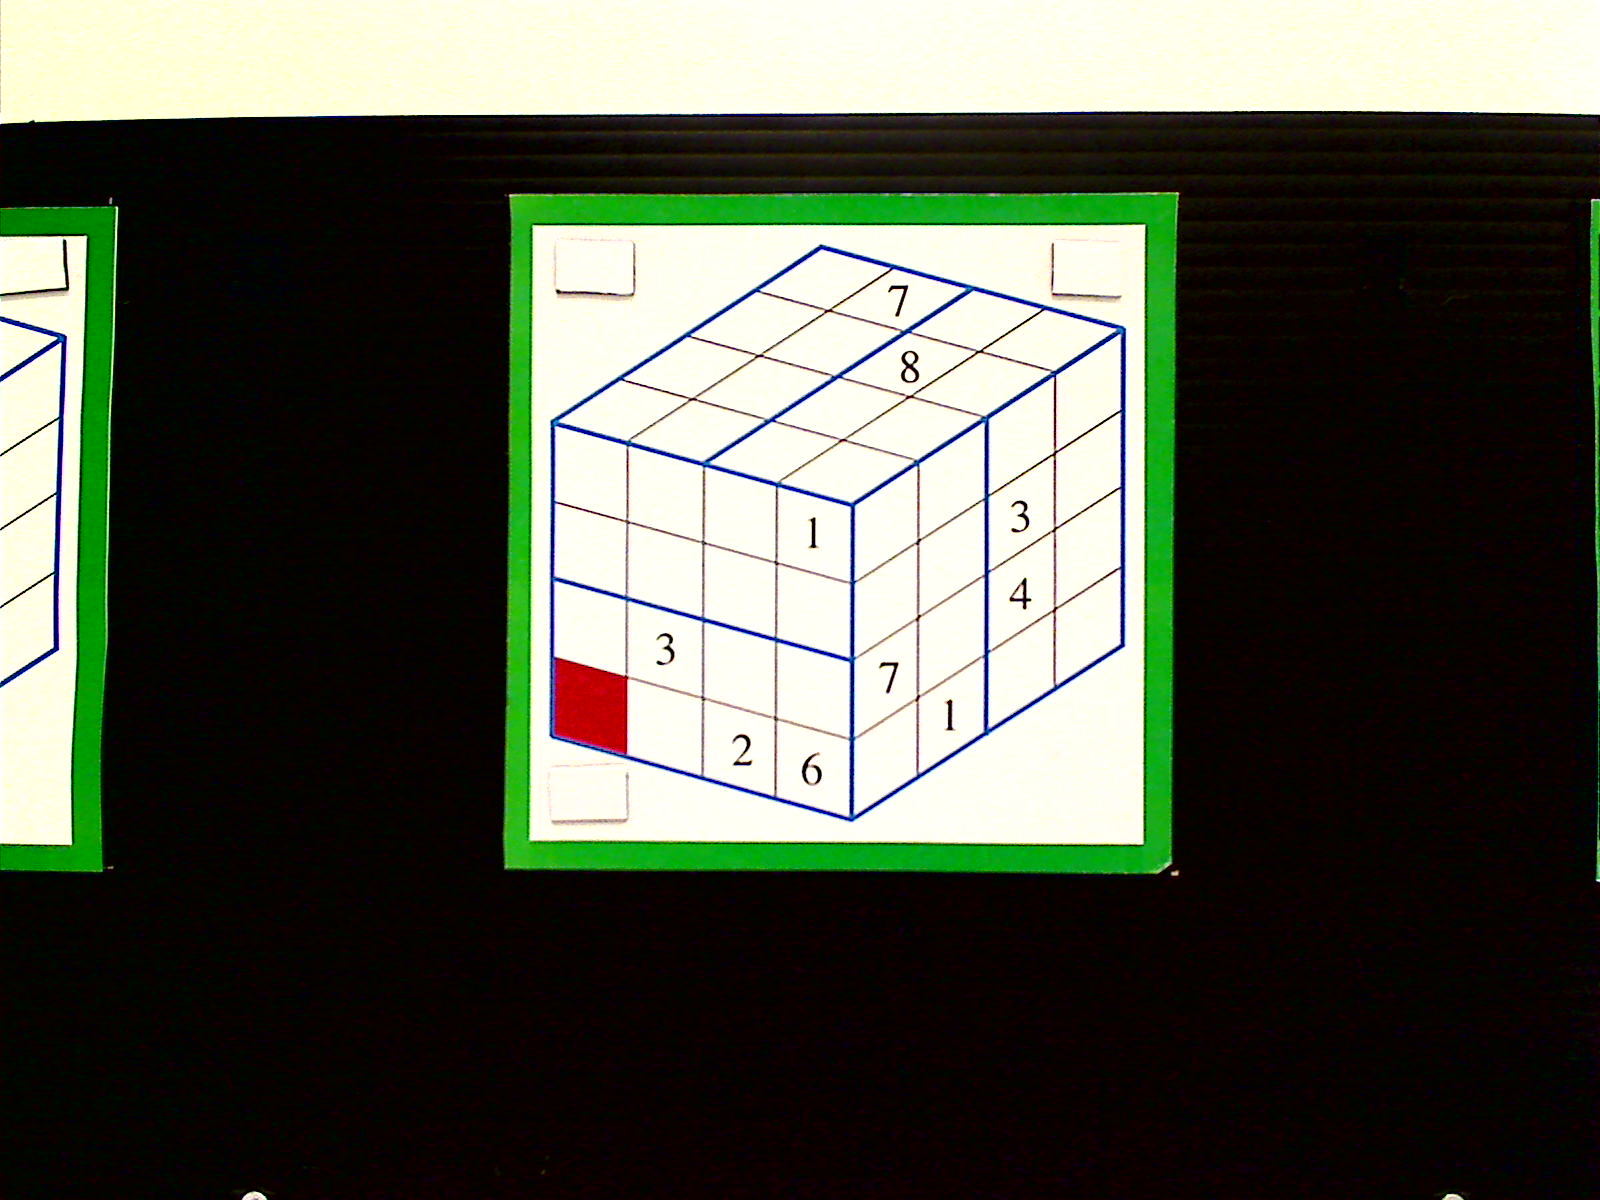
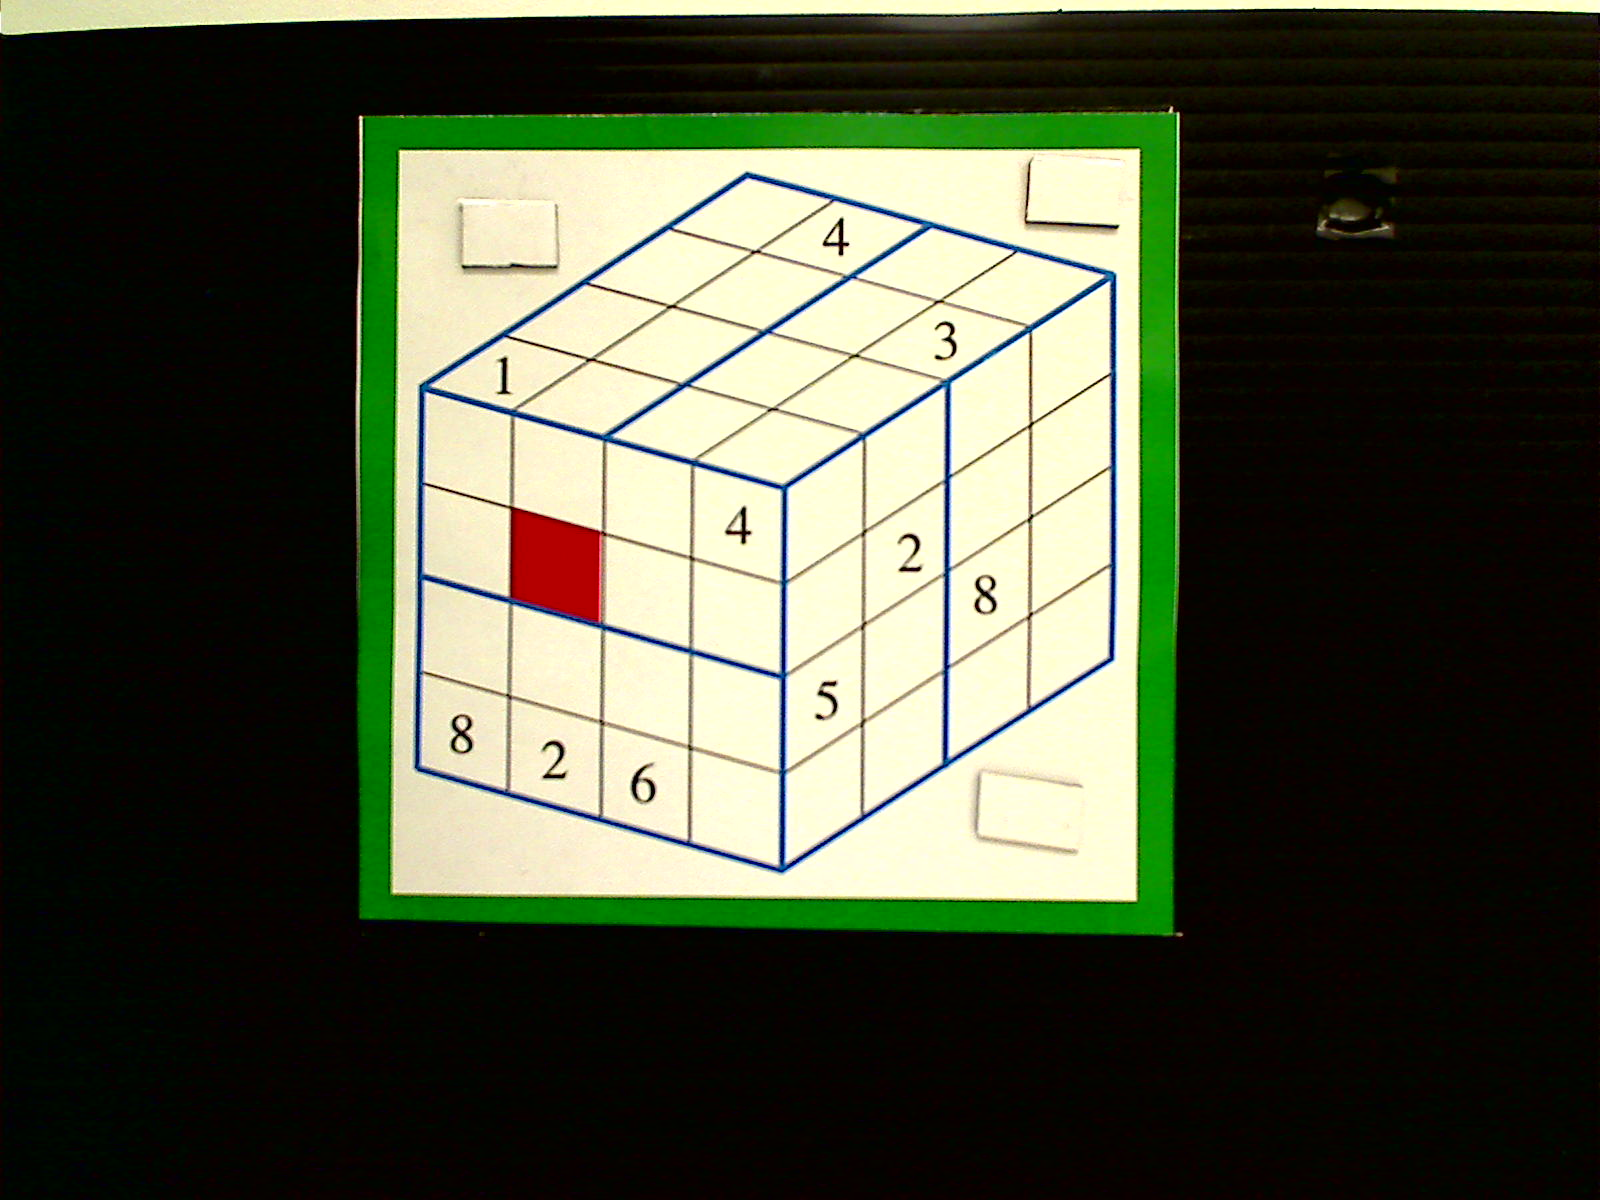
Tentative de correction de l'algo d'extraction des sudocubes

diff --git a/app/src/kinocto/src/vision/SudocubeExtractor.cpp b/app/src/kinocto/src/vision/SudocubeExtractor.cpp
@@ -31,17 +31,56 @@ Sudocube * SudocubeExtractor::extractSudocube(Mat & src) {
         return sudokube;
     }
 
-    double factor;
+    //Réduction de la taille de l'image
     Mat frameCroppedGray = srcGray(frameRect);
-    factor = (double) 500 / (double) frameCroppedGray.cols;
 
-    Size newSize(round(frameCroppedGray.cols * factor), round(frameCroppedGray.rows * factor));
-    cv::resize(frameCroppedGray, frameCroppedGray, newSize);
+    double ratio = (double) frameCroppedGray.cols / frameCroppedGray.rows;
+    double factorX = 500;
+    double factorY = (double) 500 / ratio;
+
+    Size newSize(round(factorX), round(factorY));
+    cv::resize(frameCroppedGray, frameCroppedGray, Size(round(factorX), round(factorY)));
+
+///////////////////////////
+    Mat croppedHSV = srcHSV(frameRect);
+    Size newSizeHSV(round(factorX), round(factorY));
+    cv::resize(croppedHSV, croppedHSV, newSize);
+
+    Mat segmentedBlueLine;
+
+    inRange(croppedHSV, Scalar(80, 0, 0), Scalar(150, 255, 255), segmentedBlueLine);
+    VisionUtility::applyErode(segmentedBlueLine, 1, MORPH_RECT);
+    VisionUtility::applyDilate(segmentedBlueLine, 5, MORPH_RECT);
+
+    vector<vector<Point> > sudocubeContours;
+    vector<Vec4i> sudocubeHierarchy;
+    Mat thresContour;
+    segmentedBlueLine.copyTo(thresContour);
+    findContours(thresContour, sudocubeContours, sudocubeHierarchy, CV_RETR_TREE, CV_CHAIN_APPROX_SIMPLE, Point(0, 0));
+
+    vector<Rect> sudocubeBoundingRect(0);
+    vector<vector<Point> > sudocubeContoursPoly(sudocubeContours.size());
+
+    int polyy = 0;
+    for (uint i = 0; i < sudocubeContours.size(); i++) {
+        approxPolyDP(Mat(sudocubeContours[i]), sudocubeContoursPoly[i], 3, true);
+        Rect rect = boundingRect(Mat(sudocubeContoursPoly[i]));
+
+        if (rect.area() > 200000) {
+            polyy = i;
+            sudocubeBoundingRect.push_back(rect);
+        }
+    }
+
+    Mat sudocubeMask = Mat::zeros(croppedHSV.size(), CV_8UC1);
+    fillConvexPoly(sudocubeMask, sudocubeContoursPoly[polyy], white);
+    sudocubeMask = 255 - sudocubeMask;
+/////////////////////
 
     SquaresExtractor squaresExtractor;
     vector<SquarePair> squaresPair;
     Mat frameCroppedThresholded;
-    bool squaresAreExtracted = squaresExtractor.findSquaresPair(frameCroppedGray, squaresPair, frameCroppedThresholded, sudocubeNo);
+    bool squaresAreExtracted = squaresExtractor.findSquaresPair(frameCroppedGray, squaresPair, frameCroppedThresholded, sudocubeMask, sudocubeNo);
     if (squaresAreExtracted == false) {
         cout << "Could not extract all the square for sudocube" << endl; //TODO gestion d'exception
         return sudokube;
@@ -73,7 +112,7 @@ Sudocube * SudocubeExtractor::extractSudocube(Mat & src) {
             frameCroppedThresholded.copyTo(squareMasked, squareMask);
 
             Mat squareInversedMask = 255 - squareMask;
-            VisionUtility::applyDilate(squareInversedMask, 8, MORPH_RECT);
+            VisionUtility::applyDilate(squareInversedMask, 2, MORPH_RECT);
 
             NumberExtractor numberExtractor;
             Mat number;
@@ -84,16 +123,14 @@ Sudocube * SudocubeExtractor::extractSudocube(Mat & src) {
                 (*itNum) = numberFound;
                 if (number.size().width > 0 && number.size().height > 0) {
                     int y = distance(orderedSquaresPair[i].begin(), itPair);
-                    sprintf(filename, "%s/number/%d_%d_%d.png", OUTPUT_PATH, sudocubeNo, i + 1, y);
-                    VisionUtility::saveImage(number, filename);
+                    //sprintf(filename, "%s/number/%d_%d_%d.png", OUTPUT_PATH, sudocubeNo, i + 1, y);
+                    //VisionUtility::saveImage(number, filename);
                 }
             }
         }
     }
 
     insertAllNumber(*sudokube, orderedNumber);
-
-    //cout << sudokube->print() << endl;
 
     return sudokube;
 }

diff --git a/app/src/kinocto/src/vision/SquaresExtractor.cpp b/app/src/kinocto/src/vision/SquaresExtractor.cpp
@@ -13,14 +13,16 @@ SquaresExtractor::SquaresExtractor() {
 SquaresExtractor::~SquaresExtractor() {
 }
 
-bool SquaresExtractor::findSquaresPair(const Mat& srcGray, vector<SquarePair> & squaresPair, Mat& srcThresholded, int sudocubeNo) {
+bool SquaresExtractor::findSquaresPair(const Mat& srcGray, vector<SquarePair> & squaresPair, Mat & srcThresholded, Mat & sudocubeMask,
+        int sudocubeNo) {
     bool isExtracted = false;
 
     for (int threshValue = SQUARE_THRESHOLD_MIN; threshValue <= SQUARE_THRESHOLD_MAX && isExtracted == false; threshValue++) {
         threshold(srcGray, srcThresholded, threshValue, 500, THRESH_BINARY);
-        VisionUtility::applyErode(srcThresholded, 1, MORPH_ELLIPSE);
+        VisionUtility::applyErode(srcThresholded, 2, MORPH_ELLIPSE);
+        srcThresholded += sudocubeMask;
 
-        sprintf(filename, "%s/sudocubeThresh/%d.png", OUTPUT_PATH, sudocubeNo);
+        //sprintf(filename, "%s/sudocubeThresh/%d.png", OUTPUT_PATH, sudocubeNo);
         //VisionUtility::saveImage(srcThresholded, filename);
 
         vector<vector<Point> > squaresContours;

diff --git a/app/src/kinocto/src/vision/NumberExtractor.cpp b/app/src/kinocto/src/vision/NumberExtractor.cpp
@@ -13,19 +13,17 @@ NumberExtractor::~NumberExtractor() {
 
 bool NumberExtractor::extractNumber(Mat &inImage, Mat &outImage, Mat &squareMask) {
     Mat thresholdedSquare;
-    adaptiveThreshold(inImage, thresholdedSquare, 255, 1, 1, 11, 2);
+    thresholdedSquare = 255 - inImage.clone();
     thresholdedSquare.setTo(black, squareMask);
-    VisionUtility::applyDilate(thresholdedSquare, NUMBER_DILATE_SIZE, MORPH_RECT);
+
+    //VisionUtility::applyDilate(thresholdedSquare, 1, MORPH_RECT);
+    //VisionUtility::applyErode(thresholdedSquare, 2, MORPH_ELLIPSE);
 
     Mat contourImage = thresholdedSquare.clone();
     vector<vector<Point> > contours;
     findContours(contourImage, contours, RETR_LIST, CHAIN_APPROX_SIMPLE);
 
     vector<Rect> rects = getNumberRect(contours);
-
-    //namedWindow("test", CV_WINDOW_FREERATIO);
-    //imshow("test", inImage);
-    //waitKey(0);
 
     Mat ROI = Mat::zeros(Size(NumberReader::NUMBER_WIDTH, NumberReader::NUMBER_HEIGHT), CV_8UC3);
     if (rects.empty() == false) {

diff --git a/app/src/kinocto/include/vision/SquaresExtractor.h b/app/src/kinocto/include/vision/SquaresExtractor.h
@@ -17,12 +17,13 @@ class SquaresExtractor {
 public:
     const static int SQUARE_THRESHOLD_MIN = 120;
     const static int SQUARE_THRESHOLD_MAX = 180;
-    const static int SQUARE_AREA_MIN = 4000;
-    const static int SQUARE_AREA_MAX = 12000;
+    const static int SQUARE_AREA_MIN = 3000;
+    const static int SQUARE_AREA_MAX = 20000;
 
     SquaresExtractor();
     virtual ~SquaresExtractor();
-    bool findSquaresPair(const cv::Mat& srcGray, std::vector<SquarePair>& squaresPair, cv::Mat& srcThresholded, int sudocubeNo);
+    bool findSquaresPair(const cv::Mat& srcGray, std::vector<SquarePair>& squaresPair, cv::Mat& srcThresholded, cv::Mat & sudocubeMask,
+            int sudocubeNo);
 
 private:
     const static char OUTPUT_PATH[];

diff --git a/app/src/kinocto/src/vision/RedSquarePairExtractor.cpp b/app/src/kinocto/src/vision/RedSquarePairExtractor.cpp
@@ -43,6 +43,7 @@ vector<Rect> RedSquarePairExtractor::getRedSquareRects(vector<vector<Point> > & 
         approxPolyDP(Mat(squareContour[i]), squareContoursPoly[i], 3, true);
         Rect rect = boundingRect(Mat(squareContoursPoly[i]));
 
+        //cout << rect.area() << endl;
         if (rect.area() > SquaresExtractor::SQUARE_AREA_MIN && rect.area() < SquaresExtractor::SQUARE_AREA_MAX) {
             squareBoundingRect.push_back(rect);
         }

diff --git a/app/src/kinocto/test/vision/SudocubeExtractorIT.cpp b/app/src/kinocto/test/vision/SudocubeExtractorIT.cpp
@@ -180,7 +180,7 @@ TEST_F(SudocubeExtractorIT, testSortSudocube) {
     vector<Sudocube *> sudocubes;
     vector<Sudocube *> pool;
     vector<int> poolNumber;
-    for (int i = 10; i <= 27; i++) {
+    for (int i = 1; i <= 32; i++) {
         Mat img = loadSudocubeNo(i);
         Sudocube * sudocube = sudocubeExtractor->extractSudocube(img);
         sudocubes.push_back(sudocube);
